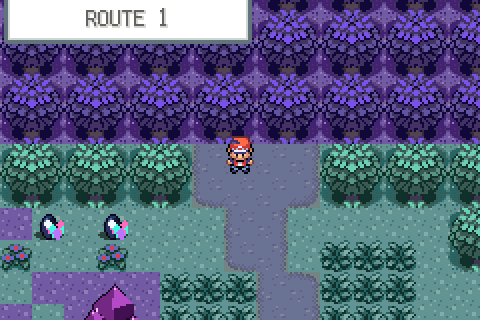
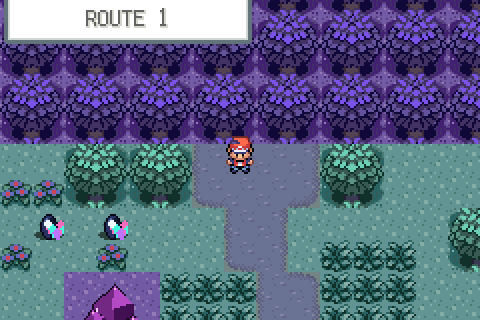
Route 1 v5: consistent tree/grass colour stage (v4 kept as reference)
Claude-Session: https://claude.ai/code/session_01GQJ6VBZbBVtTh4mURN6n2L

Changed region(s): [[0.7812, 0.4375, 1.0, 0.6562], [0.0, 0.4375, 0.1562, 0.75], [0.0, 0.8438, 0.1562, 1.0]]

diff --git a/docs/topaze/reference/route1_gradient_v4.py b/docs/topaze/reference/route1_gradient_v4.py
@@ -90,7 +90,6 @@ TREE = [[468, 469], [476, 477]]
 G = {}; OCC = {}; STG = {}
 rnd = random.Random(1010)
 def stage_at(x, y):
-    if x <= 3 or x >= W - 4 or y <= 3 or y >= H - 4: return stage_smooth(x, y)      # bordure d'arbres : meme etage que les arbres, sans grain
     t = (H - 1 - y) / (H - 1)
     n = 0.35 * math.sin(x * 0.55 + y * 0.21) + 0.25 * math.sin(y * 0.37 - x * 0.3) + 0.2 * math.sin(x * 0.23 + y * 0.6)
     j = ((x * 73856093) ^ (y * 19349663)) % 1000 / 1000.0 - 0.5               # grain : fondu irregulier aux frontieres
@@ -111,7 +110,7 @@ def claim(x, y, w, h, name):
 for y in range(H):
     for x in range(W): put(x, y, 0x3000, GRASS_M)
 def tree(x, y):
-    st = stage_smooth(x, y)
+    st = stage_at(x, y)
     for j in range(2):
         for i in range(2): put(x + i, y + j, 0x400, TREE[j][i], st=st)
 # ---- portes : sud (Grenalux) x=12..13 ; nord (Opanihrum) x=14..17
@@ -343,12 +342,7 @@ def grove(cx, cy, n, spread):
     k = tries = 0
     while k < n and tries < 800:
         tries += 1; x = int(rnd.gauss(cx, spread)); y = int(rnd.gauss(cy, spread))
-        if free_tree(x, y):
-            tree(x, y); claim(x, y, 2, 2, 'arbre'); k += 1
-            for j in range(-2, 4):                                              # l'herbe autour prend l'etage de l'arbre : pas de bord de couleur
-                for i in range(-2, 4):
-                    c = (x + i, y + j)
-                    if 0 <= c[0] < W and 0 <= c[1] < H and c not in OCC: put(c[0], c[1], 0x3000, GRASS_M, st=stage_smooth(x, y))
+        if free_tree(x, y): tree(x, y); claim(x, y, 2, 2, 'arbre'); k += 1
 for (cx, cy, n, s) in ((4, 50, 5, 2.2), (20, 48, 5, 2.4), (22, 40, 4, 2), (3, 40, 3, 1.5), (10, 38, 4, 2.2), (22, 29, 4, 2), (3, 25, 5, 2), (13, 26, 3, 1.4),
                        (5, 18, 4, 2), (22, 18, 3, 1.5), (3, 6, 5, 2), (6, 12, 2, 1.5), (20, 6, 4, 2), (12, 3, 3, 1.5), (24, 24, 2, 1.5), (12, 14, 2, 1.5)):
     grove(cx, cy, n, s)

diff --git a/docs/technique/ARCHITECTURE.md b/docs/technique/ARCHITECTURE.md
@@ -48,7 +48,7 @@ Le dépôt est celui de pokefirered ; seuls les éléments modifiés pour Topaze
 | **Grenalux v5 – grande ville 44×36 (référence v5)** | `docs/topaze/grenalux_big.py` (ordre : `import_emerald_tiles.py` → `grenat_palette.py` → `grenalux_big.py`) : avenue nord-sud, grande rue est-ouest, place centrale avec îlot et monument de cristal, bassin sud relié à la route 21, 4 bâtiments utiles (joueur (8,9), ranch (36,8), labo (35,21), musée (8,21)) et 6 maisons décoratives, potager, ~34 arbres, cristaux. Connexions : route 1 décalée de 10 (ouverture en x=22..23), route 21 décalée de 14 (eau en x=21..23). `heal_locations.json` : respawn (8,10). **La v4 (24×20) reste la référence** : branche `grenalux-v4-reference` et `docs/topaze/reference/` (carte, map.json, scripts, image) ; ses scripts (`grenalux_emerald.py`, `grenalux_crystals.py` en `__main__`) restent exécutables mais il faut alors remettre les dimensions 24×20 dans `layouts.json` et `map.json`. |
 | **Grenalux v6 – ville vivable (version actuelle)** | `docs/topaze/grenalux_town.py` puis `grenalux_events.py` (ordre : `import_emerald_tiles.py` → `grenat_palette.py` → `git checkout fa8f0d0 -- data/layouts/layouts.json` → `grenalux_town.py` → `grenalux_events.py`). Plan d'occupation avec assertions (aucun chevauchement, portes et PNJ atteignables), toits en variantes de palette (11 ardoise-violet, 12 ocre), lampadaires de cristal, cristaux gardiens de l'avenue, carrière de blocs + entrée de mine à l'est, bassin avec promenade, potager, bosquets, chemins de portes par BFS, 6 PNJ d'ambiance (textes provisoires). **Ranch** : maison voisine remplacée par un **jardin de baies décoratif** (parcelle clôturée, buissons à baies non récoltables, jardinière qui l'explique) ; panneau du ranch en (37,9). Clôtures, foin, abreuvoir, buissons, grange et silo (grand ranch) sont dessinés par code dans `grenalux_crystals.py` (pas de moulin/grange dans les tilesets officiels FR/Émeraude). **Grand ranch** : carte `PalletTown_Ranch` (32×24, groupe 4 n°5, layout `LAYOUT_PALLET_TOWN_RANCH`), généré par la 2ᵉ partie de `grenalux_town.py` puis `grenalux_ranch_events.py` ; accessible par l'ouverture du cadre d'arbres à l'est de Grenalux (x=42..43, y=6..7, connexion « droite » décalage 0) : écurie, grange + silo, 3 enclos, cristaux, ouvriers, fillette, animaux. **Avant/après l'attaque** (`FLAG_GRENALUX_ONYBRIS_STRIKE`) : clôture est de l'enclos B intacte puis ouverte (`setmetatile` au chargement), Doduo et 2 Nidoran (Pokémon pisteurs) présents puis disparus, ouvrier au pied de la clôture coupée (`FLAG_HIDE_RANCH_CUT_HAND`) visible seulement après, dialogues des ouvriers changés. Mêmes portes/coordonnées d'événements que la v5 sauf panneau du labo (36,22). **Sorties de ville** : nord (Route 1) et sud (Route 21, par l'eau) sont des **warps** (pas des connexions : mélange de tilesets Émeraude/FR = tuiles brouillées) ; un warp s'active sur case ordinaire dans PalletTown/Route1/Route21_North grâce à `IsTopazeStepWarpMap()` (`src/field_control_avatar.c`). Seule la connexion est (ranch) subsiste, même tileset. Les versions v4 (24×20) et v5 (44×36) restent archivées : branches `grenalux-v4-reference`, `grenalux-v5-reference` et `docs/topaze/reference/`. |
 | **Opanihrum v1 – la cité de l'Opale noire (arène d'Hepha, Acier)** | Ville 42×40 (slot de Jadielle, `LAYOUT_VIRIDIAN_CITY`) construite avec les décors de **Rustboro** (pierre grise d'Émeraude) recolorés en ardoise bleu-nuit (« plus il est sombre, plus il cache de couleurs », cf. dialogue d'Hepha) + art procédural : monument d'opale noire à reflets irisés, enclumes, lingots. `docs/topaze/opanihrum_town.py` (génère carte + tilesets `general_opal` / `rustboro_opal`, **secondaire compacté** : seules les métatuiles utilisées sont gardées, 161+49 tuiles sur 384) puis `opanihrum_events.py`. Rendu d'aide au choix des morceaux : `docs/topaze/emrender.py` (`../pokeemerald` doit avoir `data/layouts/RustboroCity` en sparse-checkout). Bâtiments : **fonderie** (10×9, arène, 2 portes en (8,11)/(9,11), verrouillée par `VAR_MAP_SCENE_VIRIDIAN_CITY_GYM_DOOR`), école, maison, Centre (16,20), Boutique (27,20) + 6 bâtiments décoratifs, fontaine, parc, parterres, lampadaires, grille de fer. Vieil homme (barrage/tutoriel de capture) déplacé à la **porte nord** (20,2), déclencheur (21,2). Sorties = **warps** : nord Route 2 (`x=7..11,y=79`), sud Route 1 (`x=10..13,y=0`), ouest Route 22 (`x=47,y=6..9`) ; `IsTopazeStepWarpMap()` étendu à `LAYOUT_VIRIDIAN_CITY`/`ROUTE2`/`ROUTE22`. Respawn du Centre mis à jour (`heal_locations.h`). Ordre : `opanihrum_town.py` → `opanihrum_events.py` → supprimer `build/firered/data/maps.o` → `make`. Rendu : `docs/topaze/reference/opanihrum_v1.png`. |
-| **Route 1 « route du dégradé » (carte entièrement nouvelle 26×54)** | `docs/topaze/route1_gradient.py` puis `route1_events.py`. Les couleurs glissent du **grenat** (sud, Grenalux) au **violet** puis à l'**opale noire** (nord, Opanihrum) : 3 étages de palettes (mélange en teinte HLS par le violet) ; les métatuiles d'Émeraude (herbe, arbres, fleurs, herbe haute, sable) sont recopiées dans le tileset secondaire `gradient_road` avec d'autres numéros de palette (emplacements : étage 0 = primaire 0,2,5 ; étage 1 = primaire 1,3,4 ; étage 2 = secondaire 7,8,9 ; art 6/10/11 ; panneau 12), l'étage de chaque case suit le gradient sud→nord + un champ lisse + un grain (fondu irrégulier). Chemin sinueux, 10 zones d'herbes hautes (rencontres), cristaux épars (prismes de grenat → dômes d'opale) et « pierre du dégradé » (3×3). Warps : sud (12..13,53) ↔ Grenalux, nord (14..17,0) ↔ Opanihrum. Le garçon et le panneau ont de nouveaux textes (plus de corniches). Primaire `general_gradient`. Rendu : `docs/topaze/reference/route1_gradient_v1.png`. **v4 (actuelle)** : retour « trop longue, le joueur va tout droit » → carte raccourcie **26×38** et chemin **obligatoirement en zigzag** : 4 crêtes de roche quasi pleine largeur (bords ondulés) avec chacune une brèche, côtés alternés (`RIDGE_Y`, `GAPS` dans `route1_gradient.py`) ; warps sud (12..13,37), nord (14..17,0). Rendu : `route1_gradient_v4.png`. **v3 (archivée, `route1_gradient_v3.png`)** : retour de l'utilisateur sur la v2 « trop brute, pas assez naturel, les murs ne se touchent pas » → chemin en méandre continu (`xc(y)` + remplissage ligne à ligne), plus de monticules ni de corniches ; 11 **plateaux rocheux organiques** (blobs de croissance compacte) dessinés en **autotile** (masque des 4 voisins, 3 variantes, teinte selon l'étage au centroïde) donc les murs se touchent et forment des crêtes continues ; pierre du dégradé et panneau (11,51) conservés. Rendu : `docs/topaze/reference/route1_gradient_v3.png`. **v2 (archivée dans le rendu `route1_gradient_v2.png`)** : chemin beaucoup plus sinueux (18 points, segments courts), 5 **murs de collines** (monticules de roche 2×2, métatuiles 131/132/139/140, palette de roche partagée en 12) qui ne laissent que le chemin, **corniches** (ledges, saut vers le sud) en terrasses, panneau dessiné en art ; herbes hautes tirées au hasard près du chemin. La v1 (chemin presque droit) est conservée : `docs/topaze/reference/route1_gradient_v1.{png,py}` et branche `route1-gradient-v1-reference`. |
+| **Route 1 « route du dégradé » (carte entièrement nouvelle 26×54)** | `docs/topaze/route1_gradient.py` puis `route1_events.py`. Les couleurs glissent du **grenat** (sud, Grenalux) au **violet** puis à l'**opale noire** (nord, Opanihrum) : 3 étages de palettes (mélange en teinte HLS par le violet) ; les métatuiles d'Émeraude (herbe, arbres, fleurs, herbe haute, sable) sont recopiées dans le tileset secondaire `gradient_road` avec d'autres numéros de palette (emplacements : étage 0 = primaire 0,2,5 ; étage 1 = primaire 1,3,4 ; étage 2 = secondaire 7,8,9 ; art 6/10/11 ; panneau 12), l'étage de chaque case suit le gradient sud→nord + un champ lisse + un grain (fondu irrégulier). Chemin sinueux, 10 zones d'herbes hautes (rencontres), cristaux épars (prismes de grenat → dômes d'opale) et « pierre du dégradé » (3×3). Warps : sud (12..13,53) ↔ Grenalux, nord (14..17,0) ↔ Opanihrum. Le garçon et le panneau ont de nouveaux textes (plus de corniches). Primaire `general_gradient`. Rendu : `docs/topaze/reference/route1_gradient_v1.png`. **v5 (actuelle)** : transitions arbres/herbe corrigées (arbres et herbe de bordure ou voisine d'un arbre prennent le même étage lissé, sans grain). Rendu . **v4 (gardée de côté : , branche )** : retour « trop longue, le joueur va tout droit » → carte raccourcie **26×38** et chemin **obligatoirement en zigzag** : 4 crêtes de roche quasi pleine largeur (bords ondulés) avec chacune une brèche, côtés alternés (`RIDGE_Y`, `GAPS` dans `route1_gradient.py`) ; warps sud (12..13,37), nord (14..17,0). Rendu : `route1_gradient_v4.png`. **v3 (archivée, `route1_gradient_v3.png`)** : retour de l'utilisateur sur la v2 « trop brute, pas assez naturel, les murs ne se touchent pas » → chemin en méandre continu (`xc(y)` + remplissage ligne à ligne), plus de monticules ni de corniches ; 11 **plateaux rocheux organiques** (blobs de croissance compacte) dessinés en **autotile** (masque des 4 voisins, 3 variantes, teinte selon l'étage au centroïde) donc les murs se touchent et forment des crêtes continues ; pierre du dégradé et panneau (11,51) conservés. Rendu : `docs/topaze/reference/route1_gradient_v3.png`. **v2 (archivée dans le rendu `route1_gradient_v2.png`)** : chemin beaucoup plus sinueux (18 points, segments courts), 5 **murs de collines** (monticules de roche 2×2, métatuiles 131/132/139/140, palette de roche partagée en 12) qui ne laissent que le chemin, **corniches** (ledges, saut vers le sud) en terrasses, panneau dessiné en art ; herbes hautes tirées au hasard près du chemin. La v1 (chemin presque droit) est conservée : `docs/topaze/reference/route1_gradient_v1.{png,py}` et branche `route1-gradient-v1-reference`. |
 | Ville de départ Grenalux | `PalletTown` (`text.inc`), `region_map_entry_strings.h` |
 | Rival par défaut ZEPHYR | `data/text/new_game_intro.inc` |
 | Team Onybris | ~58 fichiers (classe de dresseur + dialogues), remplacement de « TEAM ROCKET » / « ROCKET » dans les `.string` uniquement |
